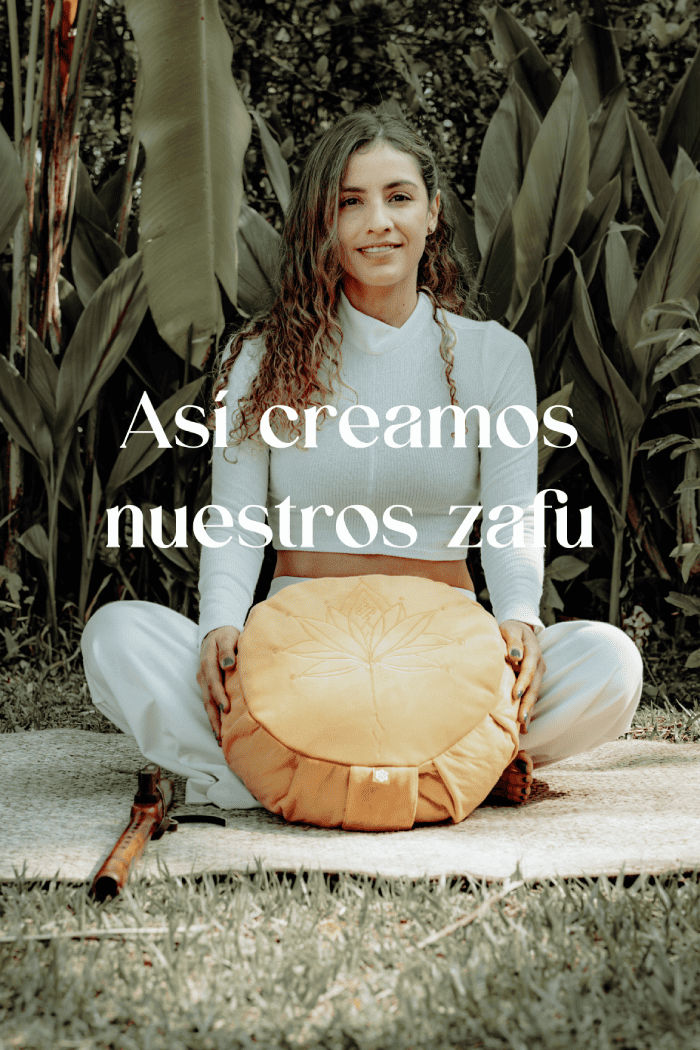
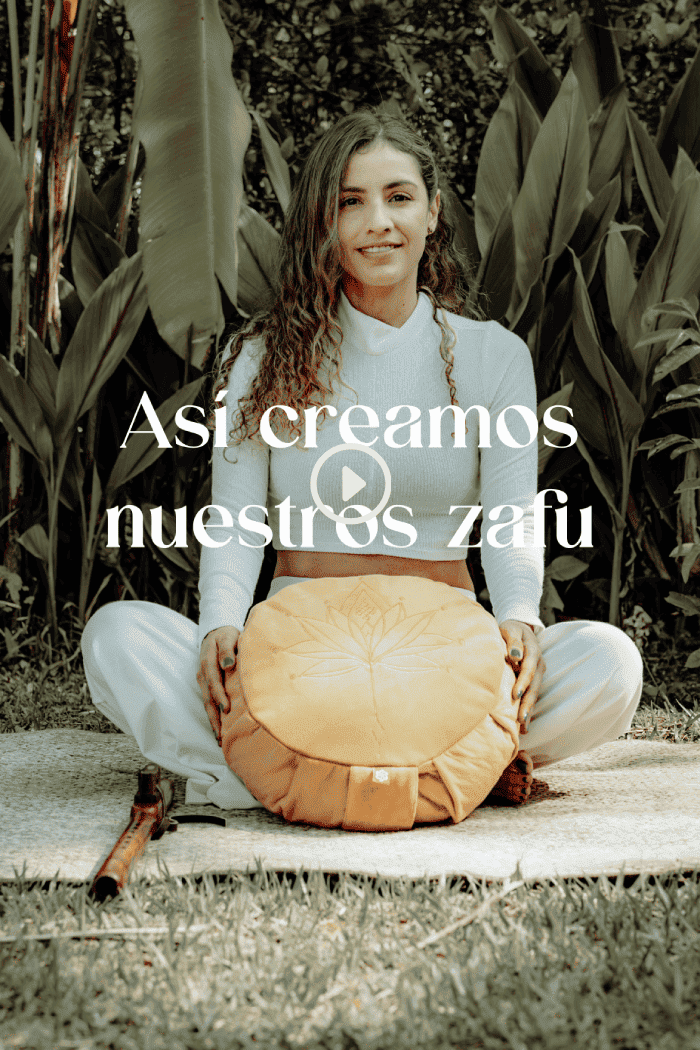
Fix imagen, video and text completed

diff --git a/src/app/components/product-description/product-description.component.html b/src/app/components/product-description/product-description.component.html
@@ -55,7 +55,7 @@
         </a>
         <div class="d-flex flex-column align-items-end">
           <span class="text-small">Diámetro 33 centímetros.</span>
-          <span class="text-small">loading="lazy" altura 20 centímetros.</span>
+          <span class="text-small">Altura 20 centímetros.</span>
           <span class="text-small"
             >Bolsa ecológica para llevarlo donde quieras.</span
           >

diff --git a/src/app/components/tutorial/tutorial.component.html b/src/app/components/tutorial/tutorial.component.html
@@ -3,7 +3,7 @@
     Conecta con Tu Ser: Conoce Mis Cursos de Yoga integral
   </h2>
   <figure class="tutorial__video">
-    <video controls>
+    <video preload="metadata" controls>
       <source src="./assets/videos/tutorial.mp4" type="video/mp4" />
     </video>
   </figure>
